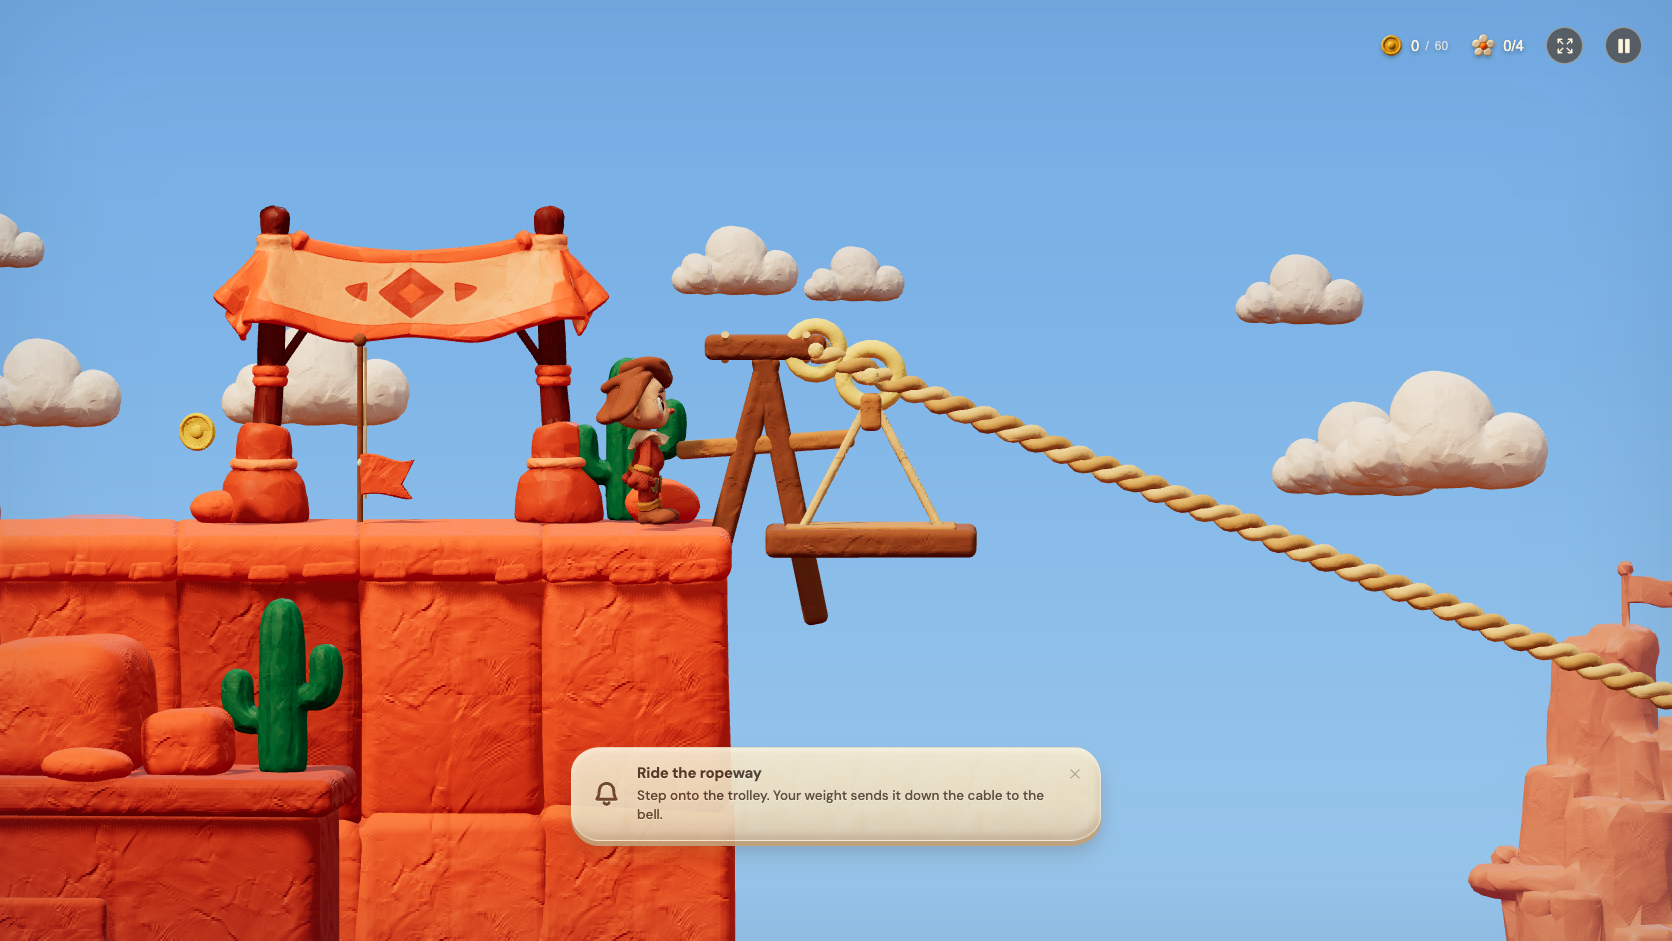
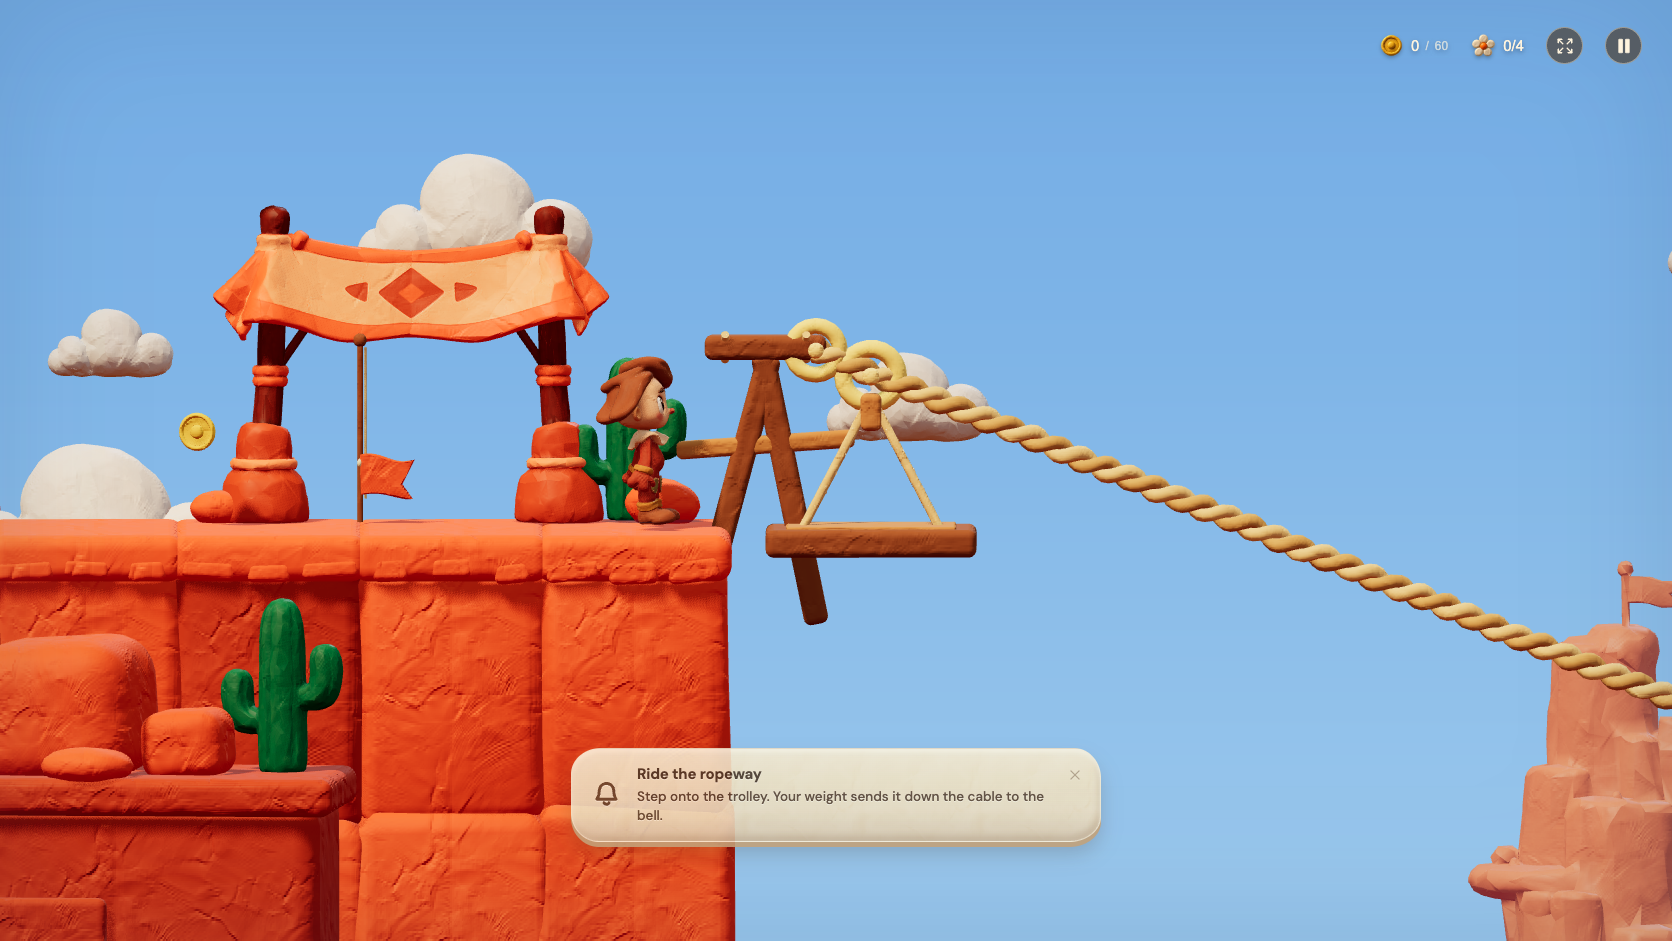
Stand the far buttes further back, and thin the cloud field
At four tenths of the fog the far rank read as a near neighbour of the
middle one, so half of what the previous pass removed comes back: the desert
fog is now 36..110, six tenths on the far rank, a fifth on the middle, next
to nothing on the low rank and none on the play plane. The cloud field was
busy at eight in view; half as many, half again as large — four or five on
screen, the largest about the width of the mill's sails.

diff --git a/dist/canyon.js b/dist/canyon.js
@@ -243,19 +243,20 @@ function butte(w,kind,rank,parent,x,y,z,height,turn){
   root.traverse(o=>{if(o.isMesh)o.material=rankMaterial(w,rank,o.material);});return root;
 }
 
-// A field of small ivory puffs at three depths. One cloud every sixteen units
-// at a single depth put about two on screen at a time, both 96% into the fog,
-// so the sky held one large salmon shape. The reference scatters eight or so
-// white puffs of different sizes across the upper frame. The camera is
-// orthographic, so size never comes from depth — it is authored per rank —
-// and the clouds keep their own white: the sky behind them is unfogged too,
-// and a cloud that takes the fog reads as a butte. Farther ranks lean a
-// little toward the sky instead. `y` is world height at the rank's depth;
-// the camera's downward tilt lifts a plane that deep by ~3 units on screen.
+// A field of ivory puffs at three depths. One cloud every sixteen units at a
+// single depth put about two on screen at a time, both 96% into the fog, so
+// the sky held one large salmon shape. The reference scatters a few white
+// puffs of different sizes across the upper frame — four or five in view,
+// the largest about as wide as the mill's sails. The camera is orthographic,
+// so size never comes from depth — it is authored per rank — and the clouds
+// keep their own white: the sky behind them is unfogged too, and a cloud that
+// takes the fog reads as a butte. Farther ranks lean a little toward the sky
+// instead. `y` is world height at the rank's depth; the camera's downward
+// tilt lifts a plane that deep by ~3 units on screen.
 const CLOUD_RANKS=[
-  {factor:.06,z:-60,y:[-1.8,2.6],width:[.9,1.6],spacing:5.5,tint:0xe2eaf5},
-  {factor:.12,z:-52,y:[-1.3,3.0],width:[1.4,2.2],spacing:8,tint:0xf1f5fa},
-  {factor:.2,z:-44,y:[-.6,3.4],width:[1.9,2.8],spacing:12,tint:0xffffff}
+  {factor:.06,z:-60,y:[-1.8,2.6],width:[1.35,2.4],spacing:11,tint:0xe2eaf5},
+  {factor:.12,z:-52,y:[-1.3,3.0],width:[2.1,3.3],spacing:16,tint:0xf1f5fa},
+  {factor:.2,z:-44,y:[-.6,3.4],width:[2.85,4.2],spacing:24,tint:0xffffff}
 ];
 function cloudMaterial(w,rank,source){
   if(!source?.isMeshStandardMaterial)return source;

diff --git a/dist/environments.js b/dist/environments.js
@@ -57,12 +57,13 @@ export function applyEnvironment(w,L){
   // route. Its far layers fade into one blue-grey haze, so sky and fog are
   // that haze; the ceiling and floor geometry supply the dark bands instead.
   if(lit){w.scene.background.setHex(CAVE_HAZE);w.scene.fog.color.setHex(CAVE_HAZE);}
-  // The canyon's fog is long and lavender. Its buttes are each their own clay
-  // (canyon.js RANKS), so the fog adds only the last of the distance: the far
-  // rank at z -53 takes four tenths, the middle a fifth, the low rank a
-  // fifteenth, and the play plane at depth 26 none. The old 32..91 cream put
-  // the far rank nine tenths of the way to a flat pale cut-out.
-  const FOG={forest:[24,76],cave:[28,108],citadel:[34,104],dream:[26,90],desert:[24,150]}[L.biome]||[32,91];
+  // The canyon's fog is lavender and starts past the play plane. Its buttes are
+  // each their own clay (canyon.js RANKS), so the fog adds the distance on top:
+  // the far rank at z -53 takes six tenths, the middle a fifth, the low rank
+  // almost none, and the play plane at depth 26 none. The old 32..91 cream put
+  // the far rank nine tenths of the way to a flat pale cut-out; a first pass
+  // at four tenths left it standing too close, so half the distance came back.
+  const FOG={forest:[24,76],cave:[28,108],citadel:[34,104],dream:[26,90],desert:[36,110]}[L.biome]||[32,91];
   w.scene.fog.near=FOG[0];w.scene.fog.far=FOG[1];
 }
 

diff --git a/docs/canyon-atmosphere/README.md b/docs/canyon-atmosphere/README.md
@@ -12,15 +12,16 @@ after, all taken by `scripts/review-canyon-atmosphere.cjs`
 a cream fog (`#f1bba0`, 32..91), and every rank was the playfield's own orange,
 so distance was one pale cut-out. Now each rank is its own clay
 (`canyon.js RANKS`: peach `#ec8a60` just behind the route, salmon `#d96b43`,
-dusty rose `#c46262` at the back) and the fog is a long lavender
-(`#9ea8d2`, 24..150) that adds only the last of the distance — 40 % on the far
-rank, 16 % on the middle, 6 % on the low, none on the play plane. Sampled
-against the reference:
+dusty rose `#c46262` at the back) and the fog is lavender (`#9ea8d2`, 36..110)
+that adds the distance on top — 62 % on the far rank, 18 % on the middle,
+3–6 % on the low, none on the play plane. A first pass at 40 % on the far
+rank stood too close, so half of the removed fog came back. Sampled against
+the reference:
 
 | rank | reference | before | after |
 |---|---|---|---|
-| far butte | `#ba6f7e` – `#c38196` | `#f0af91` | `#b8828d` – `#ba838c` |
-| middle mesa | `#dc7e60` – `#e68762` | (fogged orange) | `#da835b` |
+| far butte | `#ba6f7e` – `#c38196` | `#f0af91` | `#b18ca1` – `#b38ca1` |
+| middle mesa | `#dc7e60` – `#e68762` | (fogged orange) | `#d8825d` |
 | clouds | `#e3cab6` | `#efbba0` (one, salmon) | `#e9dccb` |
 | sky, top | `#75ade4` | `#7ba9da` (flat) | `#70a7dd` → `#79b0e6` |
 
@@ -32,10 +33,11 @@ reloads do not dispose them.
 
 **One salmon cloud → a field.** Twelve clouds at one depth, one size, sixteen
 apart, 96 % fogged: two on screen, both pink. Now three ranks
-(`CLOUD_RANKS`, factors .06/.12/.2 at z −60/−52/−44) of 0.9–2.8-unit puffs
-with `fog:false`, ~29 built, ~8 in view. The camera is orthographic, so sizes
-are authored, not a consequence of depth. The Boulder Drop's anchored cloud
-still composes from the far rank.
+(`CLOUD_RANKS`, factors .06/.12/.2 at z −60/−52/−44) of 1.35–4.2-unit puffs
+with `fog:false`, 15 built, 4–5 in view (a first pass at twice the count and
+two thirds the size read as busy). The camera is orthographic, so sizes are
+authored, not a consequence of depth. The Boulder Drop's anchored cloud still
+composes from the far rank.
 
 **A gradient sky.** `sky-gradient.js` is the cave's `hazeGradient` made
 shareable; the canyon rides it on a factor-0 layer with `SKY_STOPS`. Subtle by
@@ -45,8 +47,8 @@ design: the reference lightens ~10 % toward the horizon.
 
 ## Cost
 
-Per frame at the same four spots, draw calls rose by 8–20 (the visible clouds
-and the sky quad); triangles by ~25 k. `node scripts/check.mjs`: 64 checks
+Per frame at the same four spots, draw calls rose by 4–16 (the visible clouds
+and the sky quad); triangles by ~15 k. `node scripts/check.mjs`: 64 checks
 green. The playthrough fixtures were re-fingerprinted (the fog string lives in
 the route file the fingerprint hashes); their recordings are unchanged.
 
